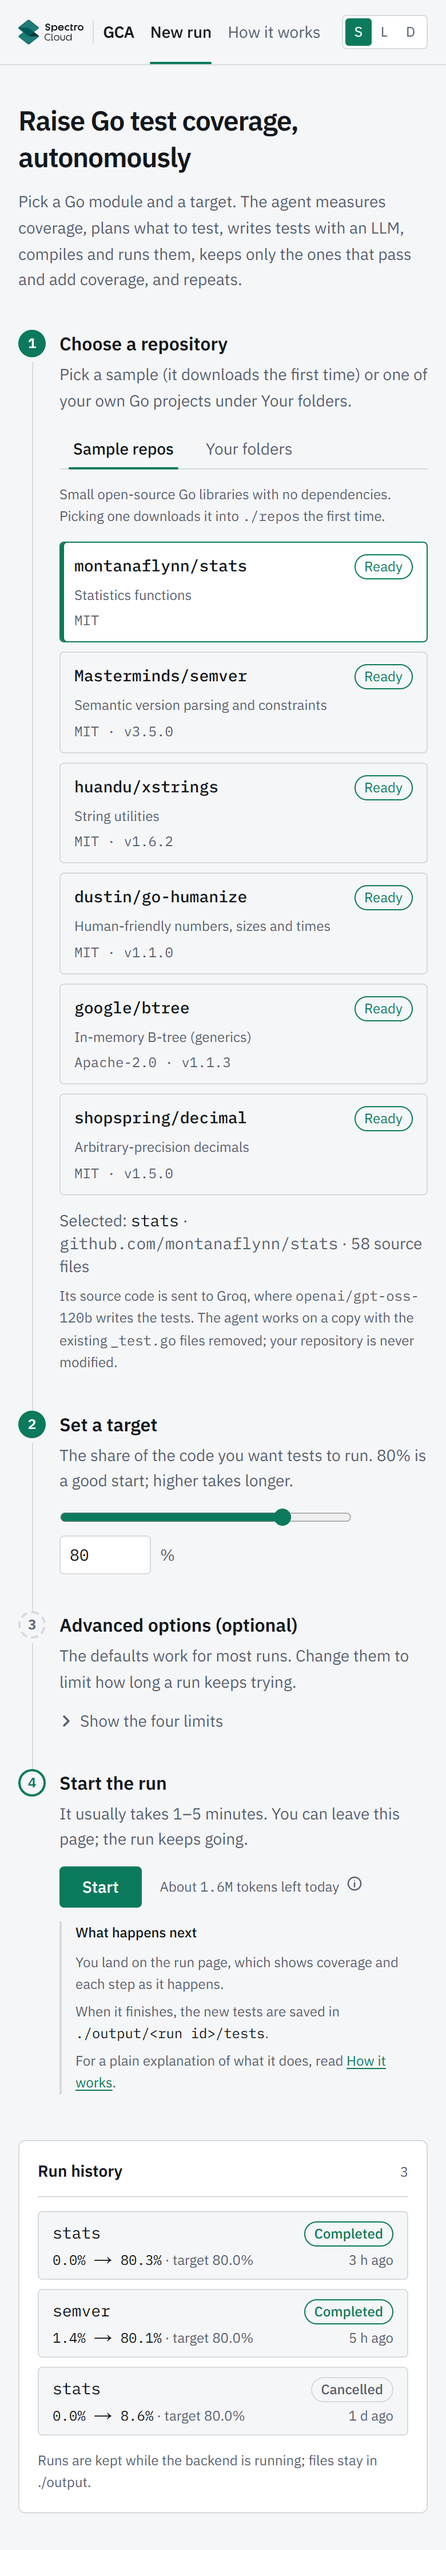
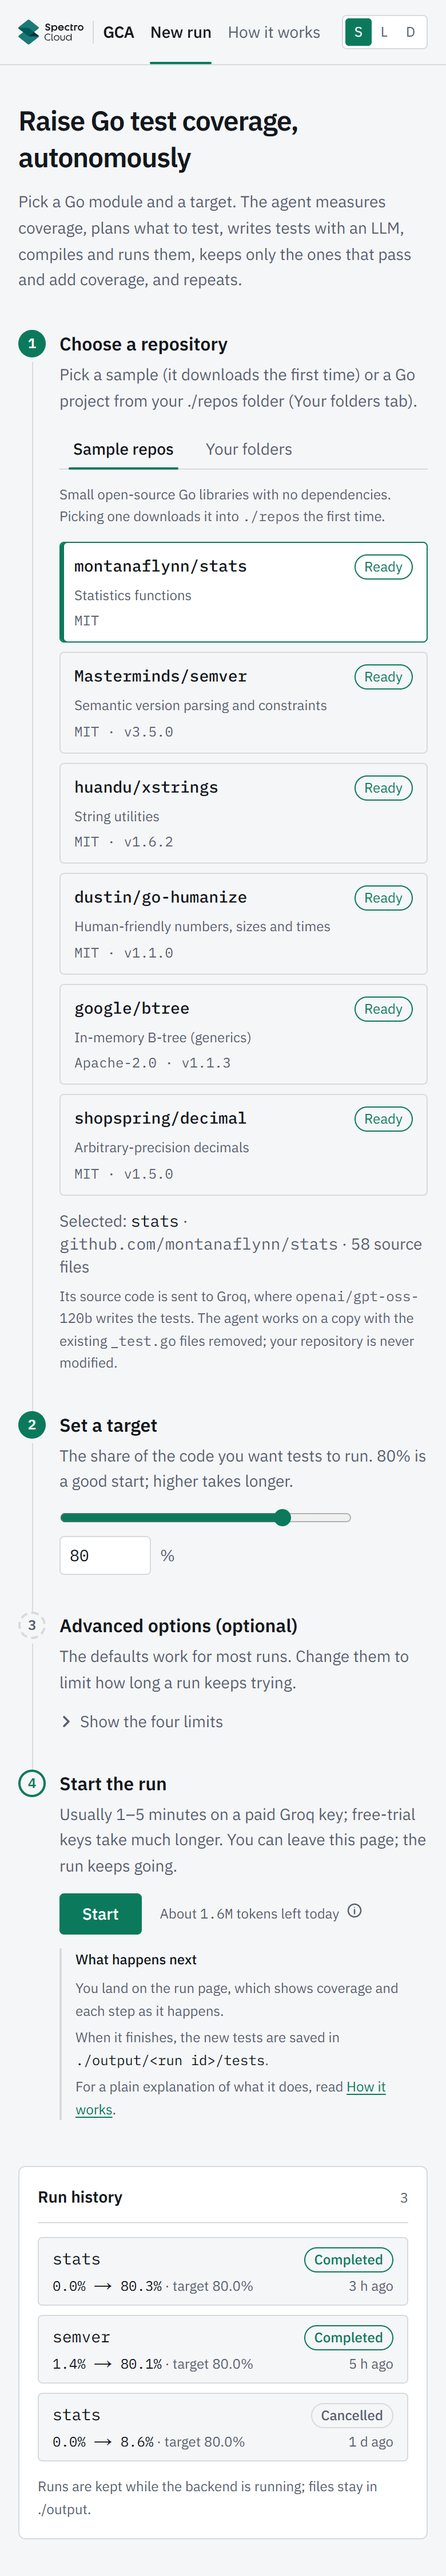
fix(frontend): clearer New run hints; drop the unused Step heading id
Step 1 hint names the ./repos folder (Your folders tab); step 4 hint says
1-5 minutes holds for a paid Groq key and free-trial keys take much
longer. The Step component no longer takes an id nothing referenced.
Setup screenshots retaken (now under 400 KB each).

diff --git a/frontend/src/app/page.tsx b/frontend/src/app/page.tsx
@@ -126,8 +126,8 @@ export default function SetupPage() {
           </div>
         )}
         <ol aria-label="Steps to start a run">
-          <Step n={1} id="step-repo" title="Choose a repository" done={!!selected}
-                hint="Pick a sample (it downloads the first time) or one of your own Go projects under Your folders.">
+          <Step n={1} title="Choose a repository" done={!!selected}
+                hint="Pick a sample (it downloads the first time) or a Go project from your ./repos folder (Your folders tab).">
             <RepoPicker tab={tab} onTabChange={changeTab} samples={samples} folders={folders} value={repo} onChange={setRepo}
                         onDownload={download} onRefresh={reload} hostDir={health?.host_repos_dir ?? null} samplesFailed={samplesFailed} />
             <div className="space-y-1.5">
@@ -143,7 +143,7 @@ export default function SetupPage() {
             </div>
           </Step>
 
-          <Step n={2} id="step-target" title="Set a target" done={targetValid}
+          <Step n={2} title="Set a target" done={targetValid}
                 hint="The share of the code you want tests to run. 80% is a good start; higher takes longer.">
             <div className="space-y-2">
               <label htmlFor="target" className="sr-only">Target coverage</label>
@@ -161,7 +161,7 @@ export default function SetupPage() {
             </div>
           </Step>
 
-          <Step n={3} id="step-advanced" title="Advanced options (optional)" optional
+          <Step n={3} title="Advanced options (optional)" optional
                 hint="The defaults work for most runs. Change them to limit how long a run keeps trying.">
             <details className="group max-w-xl">
               <summary className="flex w-fit cursor-pointer list-none items-center gap-1.5 rounded-sm text-sm text-muted hover:text-text [&::-webkit-details-marker]:hidden">
@@ -186,8 +186,8 @@ export default function SetupPage() {
             </details>
           </Step>
 
-          <Step n={4} id="step-start" title="Start the run" last
-                hint="It usually takes 1–5 minutes. You can leave this page; the run keeps going.">
+          <Step n={4} title="Start the run" last
+                hint="Usually 1–5 minutes on a paid Groq key; free-trial keys take much longer. You can leave this page; the run keeps going.">
             {error && <p role="alert" className="text-sm text-danger">{error}</p>}
 
             <div className="space-y-2">

diff --git a/frontend/src/app/page.test.tsx b/frontend/src/app/page.test.tsx
@@ -158,12 +158,12 @@ describe("SetupPage", () => {
       "Choose a repository", "Set a target", "Advanced options (optional)", "Start the run",
     ]);
     expect(within(steps[0]).getByText(/Pick a sample \(it downloads the first time\)/)).toHaveTextContent(
-      "Pick a sample (it downloads the first time) or one of your own Go projects under Your folders.");
+      "Pick a sample (it downloads the first time) or a Go project from your ./repos folder (Your folders tab).");
     expect(within(steps[1]).getByText(/share of the code/)).toHaveTextContent(
       "The share of the code you want tests to run. 80% is a good start; higher takes longer.");
     expect(within(steps[2]).getByText(/defaults work/i)).toBeInTheDocument();
     expect(within(steps[3]).getByText(/1–5 minutes/)).toHaveTextContent(
-      "It usually takes 1–5 minutes. You can leave this page; the run keeps going.");
+      "Usually 1–5 minutes on a paid Groq key; free-trial keys take much longer. You can leave this page; the run keeps going.");
     expect(within(steps[3]).getByRole("button", { name: "Start" })).toBeInTheDocument();
     expect(within(steps[0]).getByRole("tablist", { name: "Repository source" })).toBeInTheDocument();
     expect(within(steps[1]).getByRole("spinbutton", { name: "Target coverage percent" })).toBeInTheDocument();

diff --git a/frontend/src/components/Step.tsx b/frontend/src/components/Step.tsx
@@ -9,12 +9,11 @@ type Props = {
   done?: boolean;
   optional?: boolean;
   last?: boolean;
-  id: string;
   children: ReactNode;
 };
 
 /** One numbered step of the New run form: a marker on a rail, an h2, a one-line hint, then the controls. */
-export function Step({ n, title, hint, done = false, optional = false, last = false, id, children }: Props) {
+export function Step({ n, title, hint, done = false, optional = false, last = false, children }: Props) {
   const marker = done
     ? "border-accent bg-accent text-on-accent"
     : optional
@@ -30,7 +29,7 @@ export function Step({ n, title, hint, done = false, optional = false, last = fa
       </div>
       <div className={`min-w-0 flex-1 space-y-3 ${last ? "" : "pb-8"}`}>
         <div className="space-y-1">
-          <h2 id={id} className="text-base font-semibold leading-6">{title}</h2>
+          <h2 className="text-base font-semibold leading-6">{title}</h2>
           <p className="max-w-prose text-sm leading-relaxed text-muted">{hint}</p>
         </div>
         {children}
